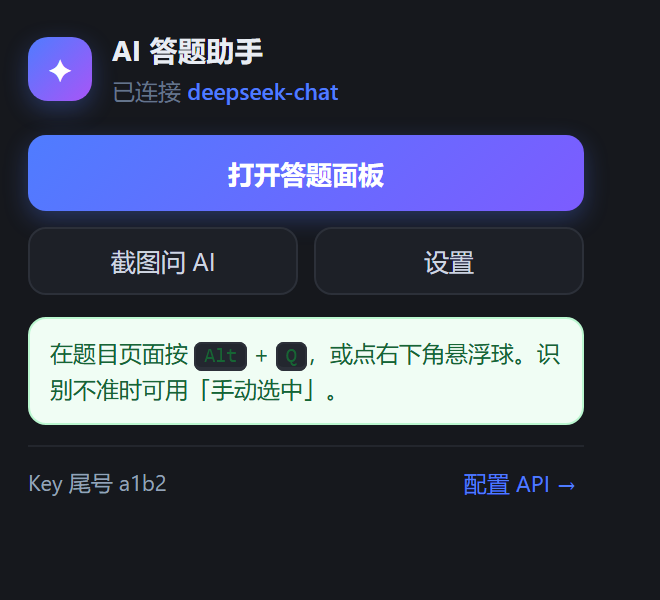
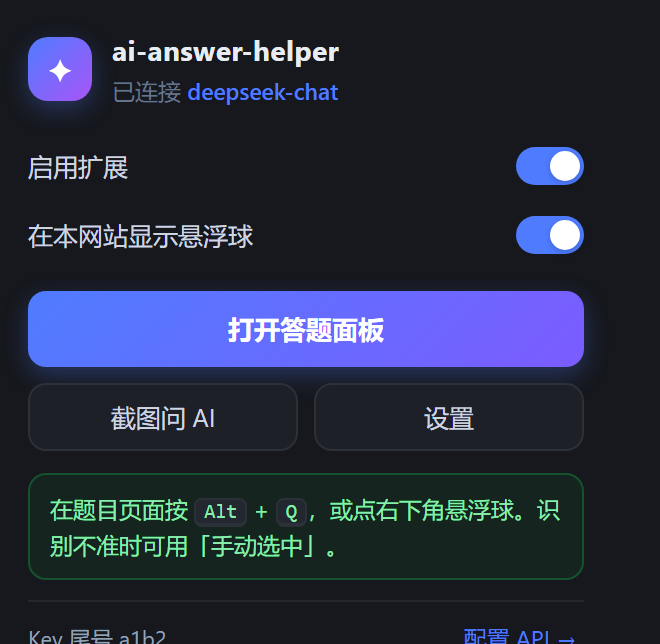
docs: 更新弹窗截图（含开关）与预览桩，清理误提交的日志

diff --git a/tools/make-page-previews.py b/tools/make-page-previews.py
@@ -34,7 +34,9 @@ POPUP_STUB = """
         hasApiKey: true, apiKeyTail: 'a1b2'
       } }),
       openOptionsPage: () => {}
-    }
+    },
+    tabs: { query: async () => [{ url: 'https://example.com/quiz/123' }] },
+    storage: { local: { get: async () => ({ 'aiqa:paused': false, 'aiqa:disabledSites': [] }) } }
   };
 </script>
 """
